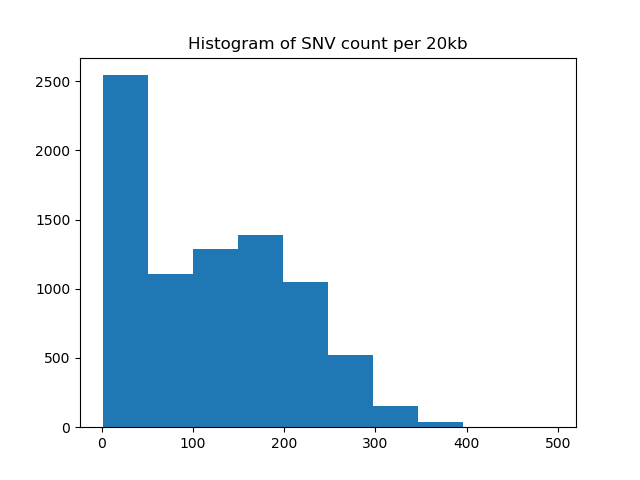
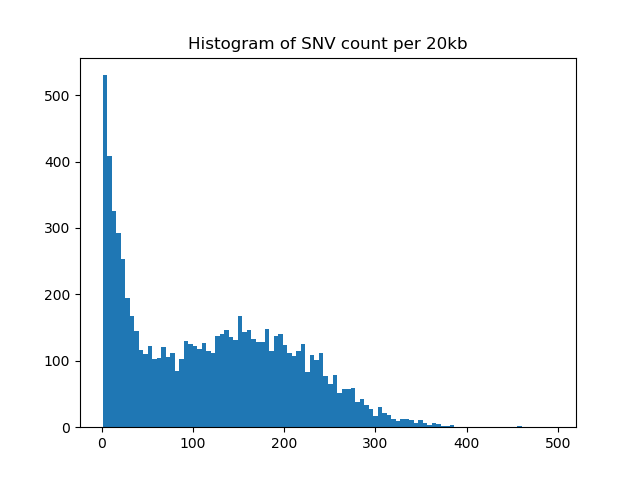
increase nbins in histogram and do for other species

diff --git a/plot.py b/plot.py
@@ -6,7 +6,7 @@ input_file=sys.argv[1]
 toplot = []
 for line in open(input_file,"r").readlines():
     toplot.append(int(line.split(" ")[2]))
-plt.hist(toplot)
+plt.hist(toplot,bins=100)
 plt.title("Histogram of SNV count per 20kb")
 plt.savefig(input_file.replace("txt","png"))
 
